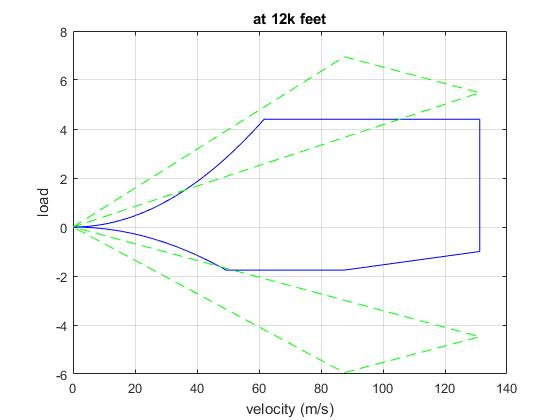
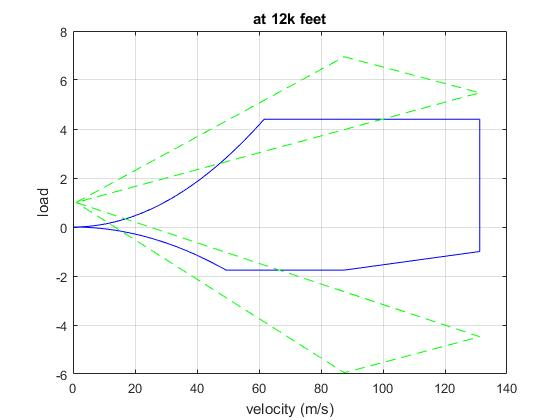
fixed

diff --git a/Vn_diagram.m b/Vn_diagram.m
@@ -38,10 +38,10 @@ vn_points = [50.4361, 4.4;...
  n6_12k = (0.5*rho_12k.*V_612k.^2)*CL_nmax_12k*s/w;
  V_212k = [vn_points(7,1) 131.2 131.2 87.5 vn_points(12,1)];
  
- n_gust_sea = [0 vn_points(2,2) vn_points(3,2) 0 vn_points(4,2) vn_points(5,2) 0];
- v_gust_sea = [0 vn_points(2,1) vn_points(3,1) 0 vn_points(4,1) vn_points(5,1) 0];
- n_gust_12k = [0 vn_points(8,2) vn_points(9,2) 0 vn_points(10,2) vn_points(11,2) 0];
- v_gust_12k = [0 vn_points(8,1) vn_points(9,1) 0 vn_points(10,1) vn_points(11,1) 0];
+ n_gust_sea = [1 vn_points(2,2) vn_points(3,2) 1 vn_points(4,2) vn_points(5,2) 1];
+ v_gust_sea = [1 vn_points(2,1) vn_points(3,1) 1 vn_points(4,1) vn_points(5,1) 1];
+ n_gust_12k = [1 vn_points(8,2) vn_points(9,2) 1 vn_points(10,2) vn_points(11,2) 1];
+ v_gust_12k = [1 vn_points(8,1) vn_points(9,1) 1 vn_points(10,1) vn_points(11,1) 1];
  
  plot(V_1sea,n1_sea,'b',V_2sea,n2_sea,'b',V_6sea,n6_sea,'b')
  hold on
